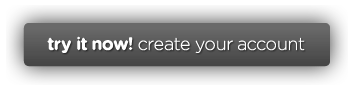
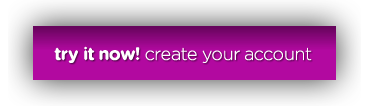
when selecting content from Flashlight results, now it preserves the content the user typed in the TextArea

diff --git a/Resources/newpost_flashlight.js b/Resources/newpost_flashlight.js
@@ -457,20 +457,19 @@ var flashlight_create = function() {
 						editTitleField.value = e.source.title;	
 						postTitle = e.source.title;
 					}
-					postBody = '';
-					textArea.value = '';
-					tempPostLabel.show();
+					postBody += '\n';
+					textArea.value += '\n';
 					theImage = e.source.fullPhoto;
 					Ti.App.fireEvent("photoChosen", {typePhoto: 'flashlight'});
 					break;
 				
 				case 'text':
 			    	//Removes whatever medias where ther ebefore
-					Ti.App.fireEvent("photoRemoved");
+					// Ti.App.fireEvent("photoRemoved");
 					if (e.source.abstract != "") {
-						textArea.value = e.source.abstract;
-						postBody = e.source.abstract;
-						tempPostLabel.hide();
+						textArea.value += '\n\n' + e.source.abstract;
+						postBody += '\n\n' + e.source.abstract;
+						textArea.focus();
 					}
 					editTitleField.value = e.source.title;	
 					postTitle = e.source.title;
@@ -478,9 +477,9 @@ var flashlight_create = function() {
 				
 				case 'video':
 					if (e.source.content != "") {
-						textArea.value = e.source.content;
-						postBody = e.source.content;
-						tempPostLabel.hide();
+						textArea.value += '\n\n' + e.source.content;
+						postBody += '\n\n' + e.source.content;
+						textArea.focus();
 					}
 					editTitleField.value = e.source.title;	
 					postTitle = e.source.title;
@@ -495,14 +494,12 @@ var flashlight_create = function() {
 					break;
 				
 				case 'twitter':
-		    	//Removes whatever medias where there ebefore
-				Ti.App.fireEvent("photoRemoved");
+			    	//Removes whatever medias where there before
+					// Ti.App.fireEvent("photoRemoved");
 				
-				editTitleField.value = "";	
-				postTitle = "";
-				textArea.value = e.source.username + '\n' + e.source.tweet;
-				postBody = '<blockquote><strong>' + e.source.username + '</strong>\n' + e.source.tweet + '</blockquote>';
-				tempPostLabel.hide();
+					textArea.value += '\n\n' + e.source.username + '\n' + e.source.tweet;
+					postBody += '\n\n<blockquote><strong>' + e.source.username + '</strong>\n' + e.source.tweet + '</blockquote>';
+					textArea.focus();
 			
 				break;
 			}

diff --git a/Resources/app.js b/Resources/app.js
@@ -55,7 +55,7 @@ var logoHeader = Titanium.UI.createImageView({
 appNavBarView.add(logoHeader);
 
 var btn_signin = Titanium.UI.createButton({
-	backgroundImage:'images/btn_signin_top_2.png',
+	backgroundImage:'images/btn_signin_top.png',
 	top: -22,
 	left: 940,
 	width: 96, // 72
@@ -67,7 +67,7 @@ var btn_signin = Titanium.UI.createButton({
 win1.add(btn_signin);
 
 var btn_signup = Titanium.UI.createButton({
-	backgroundImage:'images/btn_signup2.png',
+	backgroundImage:'images/btn_signup.png',
 	top: -26,
 	left: 599,
 	width: 369, //actual: 303	
@@ -120,7 +120,7 @@ var showHeader = function (successCallback) {
 		Ti.App.myMemeInfo = meme;
 		
 		var btn_Username = Ti.UI.createButton({
-			backgroundImage: 	'images/btn_username_2.png',
+			backgroundImage: 	'images/btn_username.png',
 			backgroundSelectedImage: 'images/btn_username_selected.png',
 			height: 			49,
 			width: 				243,
@@ -403,7 +403,7 @@ var showHeader = function (successCallback) {
 		// ===============
 		
 		var btn_StartPosting = Ti.UI.createButton({
-			backgroundImage: 	'images/btn_start_posting_2.png',
+			backgroundImage: 	'images/btn_start_posting.png',
 			height: 			79, //55
 			width: 				407, //395
 			left: 				623,
